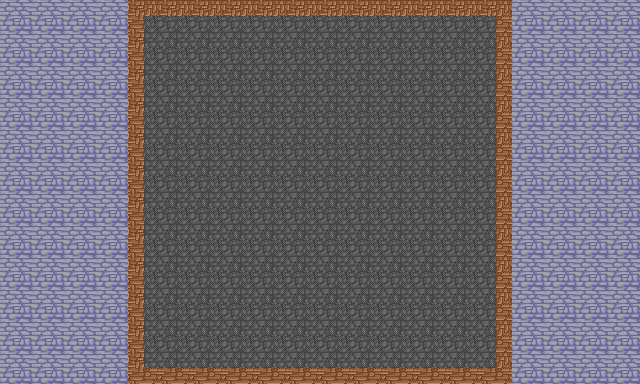
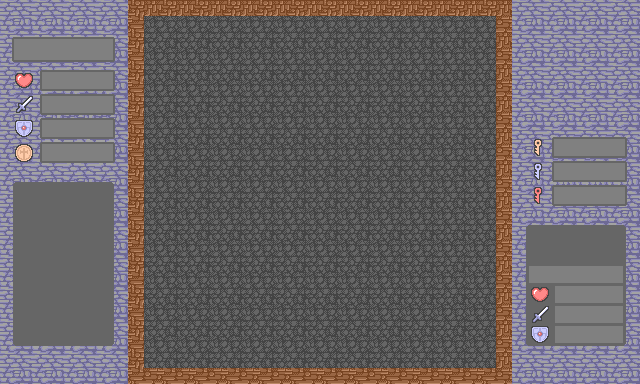
Add status labels

Changed region(s): [[0.8125, 0.3438, 1.0, 0.9062], [0.0, 0.4688, 0.1875, 0.9062], [0.0, 0.0938, 0.1875, 0.4375]]

diff --git a/start.py b/start.py
@@ -21,12 +21,23 @@ from kivy.uix.image import Image
 from kivy.uix.label import Label
 from kivy.uix.widget import Widget
 
-from cells import Point
+from cells import Point, KEYS
 from hero import Hero
 
 LOADING_MAX_LENGTH = 5
 
-WHITE = (204 / 255, 204 / 255, 204 / 255)
+# test
+def fill(x):
+	with x.canvas:
+		Color(1, 1, 1)
+		Rectangle(pos = x.pos, size = x.size)
+
+def StatusLabel(**kwargs):
+	return Label(
+		valign = "middle",
+		color = (1, 1, 1, 1),
+		text_size = kwargs["size"],
+		**kwargs)
 
 class ColorWidget(Widget):
 	def __init__(self, color, **kwargs):
@@ -61,19 +72,34 @@ class MagicTowerApp(App):
 		for row in self.cellDisplays:
 			for cell in row:
 				self.grid.add_widget(cell)
-				
-		self.hero = Hero(self.grid, START_ROW, START_COL)
+		
+		statusLabels = [StatusLabel(
+			font_size = CELL_SIZE * 0.4,
+			halign = "right",
+			pos = (CELL_SIZE * 1.4375, CELL_SIZE * (9.21875 - 0.75 * i)),
+			size = (CELL_SIZE * 1.96875, CELL_SIZE * 0.53125)) for i in range(4)]
+		for label in statusLabels:
+			self.root.add_widget(label)
+		
+		self.hero = Hero(self.grid, START_ROW, START_COL, *statusLabels)
 		self.grid.add_widget(self.hero)
 		
 		self.spark = Image(
 			source = "res/spark.png",
 			allow_stretch = True,
 			size = (CELL_SIZE, CELL_SIZE))
+			
+		self.levelLabel = StatusLabel(
+			font_size = CELL_SIZE * 0.5,
+			halign = "center",
+			pos = (CELL_SIZE * 0.59375, CELL_SIZE * 10.125),
+			size = (CELL_SIZE * 2.8125, CELL_SIZE * 0.65625))
+		self.root.add_widget(self.levelLabel)
 		
 		self.loading = Widget(pos = (CELL_SIZE * 4.5, CELL_SIZE * 0.5))
 		borderWidth = round(CELL_SIZE * 0.06)
 		with self.loading.canvas:
-			Color(*WHITE)
+			Color(204 / 255, 204 / 255, 204 / 255)
 			Rectangle(
 				pos = (self.loading.pos[0] + CELL_SIZE * (GRID_DIM / 2 - LOADING_MAX_LENGTH / 2) - borderWidth, self.loading.pos[1] + CELL_SIZE * (GRID_DIM / 2 - 0.65) - borderWidth),
 				size = (borderWidth, CELL_SIZE * 0.5 + borderWidth * 2))
@@ -89,11 +115,11 @@ class MagicTowerApp(App):
 		
 		self.loading.add_widget(Label(
 			text = "Preparing levels...",
-			font_size = CELL_SIZE / 2,
-			color = WHITE + (1,),
+			font_size = CELL_SIZE * 0.5,
+			color = (204 / 255, 204 / 255, 204 / 255, 1),
 			center = (self.loading.pos[0] + CELL_SIZE * GRID_DIM / 2, self.loading.pos[1] + CELL_SIZE * (GRID_DIM / 2 + 0.4))))
 		
-		self.loadingBar = ColorWidget(WHITE, pos = (self.loading.pos[0] + CELL_SIZE * (GRID_DIM / 2 - LOADING_MAX_LENGTH / 2), self.loading.pos[1] + CELL_SIZE * (GRID_DIM / 2 - 0.65)))
+		self.loadingBar = ColorWidget((204 / 255, 204 / 255, 204 / 255), pos = (self.loading.pos[0] + CELL_SIZE * (GRID_DIM / 2 - LOADING_MAX_LENGTH / 2), self.loading.pos[1] + CELL_SIZE * (GRID_DIM / 2 - 0.65)))
 		self.loading.add_widget(self.loadingBar)
 		
 		return self.root
@@ -115,6 +141,8 @@ class MagicTowerApp(App):
 	def showFloor(self, floor):
 		self.root.remove_widget(self.grid)
 		self.root.add_widget(self.loading)
+		
+		self.levelLabel.text = "Level %d" % floor
 		
 		self.floorsLoading = floors.prepareFloor(floor, self.handleFloorPrepared)
 		self.targetFloorLoading = floor

diff --git a/cells.py b/cells.py
@@ -30,6 +30,8 @@ KEY_YELLOW = "yellow"
 KEY_BLUE = "blue"
 KEY_RED = "red"
 
+KEYS = [KEY_YELLOW, KEY_BLUE, KEY_RED]
+
 KEY_TEXTURES = {
 	KEY_YELLOW: (10, 0),
 	KEY_BLUE: (10, 1),
@@ -122,11 +124,11 @@ class Monster(Cell):
 		self.defence = defence
 		
 	def interact(self, app):
-		heroDamage = max(app.hero.attack - self.defence, 0)
+		heroDamage = max(app.hero.attack.value - self.defence, 0)
 		heroStrikes = -1 if heroDamage == 0 else self.health // heroDamage + (self.health % heroDamage > 0)
 		
-		monsterDamage = max(self.attack - app.hero.defence, 0)
-		monsterStrikes = -1 if monsterDamage == 0 else app.hero.health // monsterDamage + (app.hero.health % monsterDamage > 0)
+		monsterDamage = max(self.attack - app.hero.defence.value, 0)
+		monsterStrikes = -1 if monsterDamage == 0 else app.hero.health.value // monsterDamage + (app.hero.health.value % monsterDamage > 0)
 		
 		if heroStrikes != -1 and (monsterStrikes == -1 or monsterStrikes >= heroStrikes):
 			app.hero.moveBy(self.location - app.hero.location)
@@ -138,7 +140,7 @@ class Monster(Cell):
 					app.showSpark()
 					Clock.schedule_once(lambda dt: app.hideSpark(), 0.15)
 					if i != heroStrikes - 1:
-						app.hero.updateHealth(-monsterDamage)
+						app.hero.health.update(-monsterDamage)
 				def createStrike(i):
 					return lambda dt: strike(i)
 				Clock.schedule_once(createStrike(i), 0.3 * i + 0.15)
@@ -179,7 +181,7 @@ class AttackCrystal(PropertyImprover):
 		self.quantity = quantity
 		
 	def interact(self, app):
-		app.hero.updateAttack(self.quantity)
+		app.hero.attack.update(self.quantity)
 		super().interact(app)
 		
 class DefenceCrystal(PropertyImprover):
@@ -188,7 +190,7 @@ class DefenceCrystal(PropertyImprover):
 		self.quantity = quantity
 		
 	def interact(self, app):
-		app.hero.updateDefence(self.quantity)
+		app.hero.defence.update(self.quantity)
 		super().interact(app)
 		
 class SmallHealthPotion(PropertyImprover):
@@ -197,5 +199,14 @@ class SmallHealthPotion(PropertyImprover):
 		self.quantity = quantity
 		
 	def interact(self, app):
-		app.hero.updateHealth(self.quantity)
+		app.hero.health.update(self.quantity)
+		super().interact(app)
+		
+class LargeHealthPotion(PropertyImprover):
+	def __init__(self, quantity):
+		super().__init__(SingleTexture(11, 1))
+		self.quantity = quantity
+		
+	def interact(self, app):
+		app.hero.health.update(self.quantity)
 		super().interact(app)

diff --git a/hero.py b/hero.py
@@ -16,8 +16,18 @@ def heroTextureRow(offset = Point(1, 0)):
 	elif offset == Point(0, -1):
 		return 1
 
+class HeroProperty:
+	def __init__(self, value, label):
+		self.value = value
+		self.label = label
+		label.text = str(value)
+		
+	def update(self, change):
+		self.value += change
+		self.label.text = str(self.value)
+
 class Hero(TextureDisplay):
-	def __init__(self, parent, row, col):
+	def __init__(self, parent, row, col, healthLabel, attackLabel, defenceLabel, moneyLabel):
 		super().__init__(pos = (parent.pos[0] + CELL_SIZE * col, parent.pos[1] + CELL_SIZE * (dim - row - 1)), size = (CELL_SIZE, CELL_SIZE))
 		self.base_pos = parent.pos
 		
@@ -25,23 +35,15 @@ class Hero(TextureDisplay):
 		self.stepTimer = None
 		self.location = Point(row, col)
 		
-		self.health = 100
-		self.attack = 10
-		self.defence = 10
+		self.health = HeroProperty(100, healthLabel)
+		self.attack = HeroProperty(10, attackLabel)
+		self.defence = HeroProperty(10, defenceLabel)
+		self.money = HeroProperty(0, moneyLabel)
 		
 		self.keys = collections.defaultdict(lambda: 0)
 		self.keys["yellow"] = 100000 # for testing
 		
 		self.draw(texture(heroTextureRow(), self.step))
-		
-	def updateHealth(self, change):
-		self.health += change
-		
-	def updateAttack(self, change):
-		self.attack += change
-		
-	def updateDefence(self, change):
-		self.defence += change
 		
 	def updateKey(self, key, change):
 		self.keys[key] += change

diff --git a/floors.py b/floors.py
@@ -5,7 +5,7 @@ from kivy.clock import Clock
 from cells import *
 import award_area, generator
 
-SECTION_SIZE = 20
+SECTION_SIZE = 10
 DEBUG_LOG = True
 
 dim = 11
